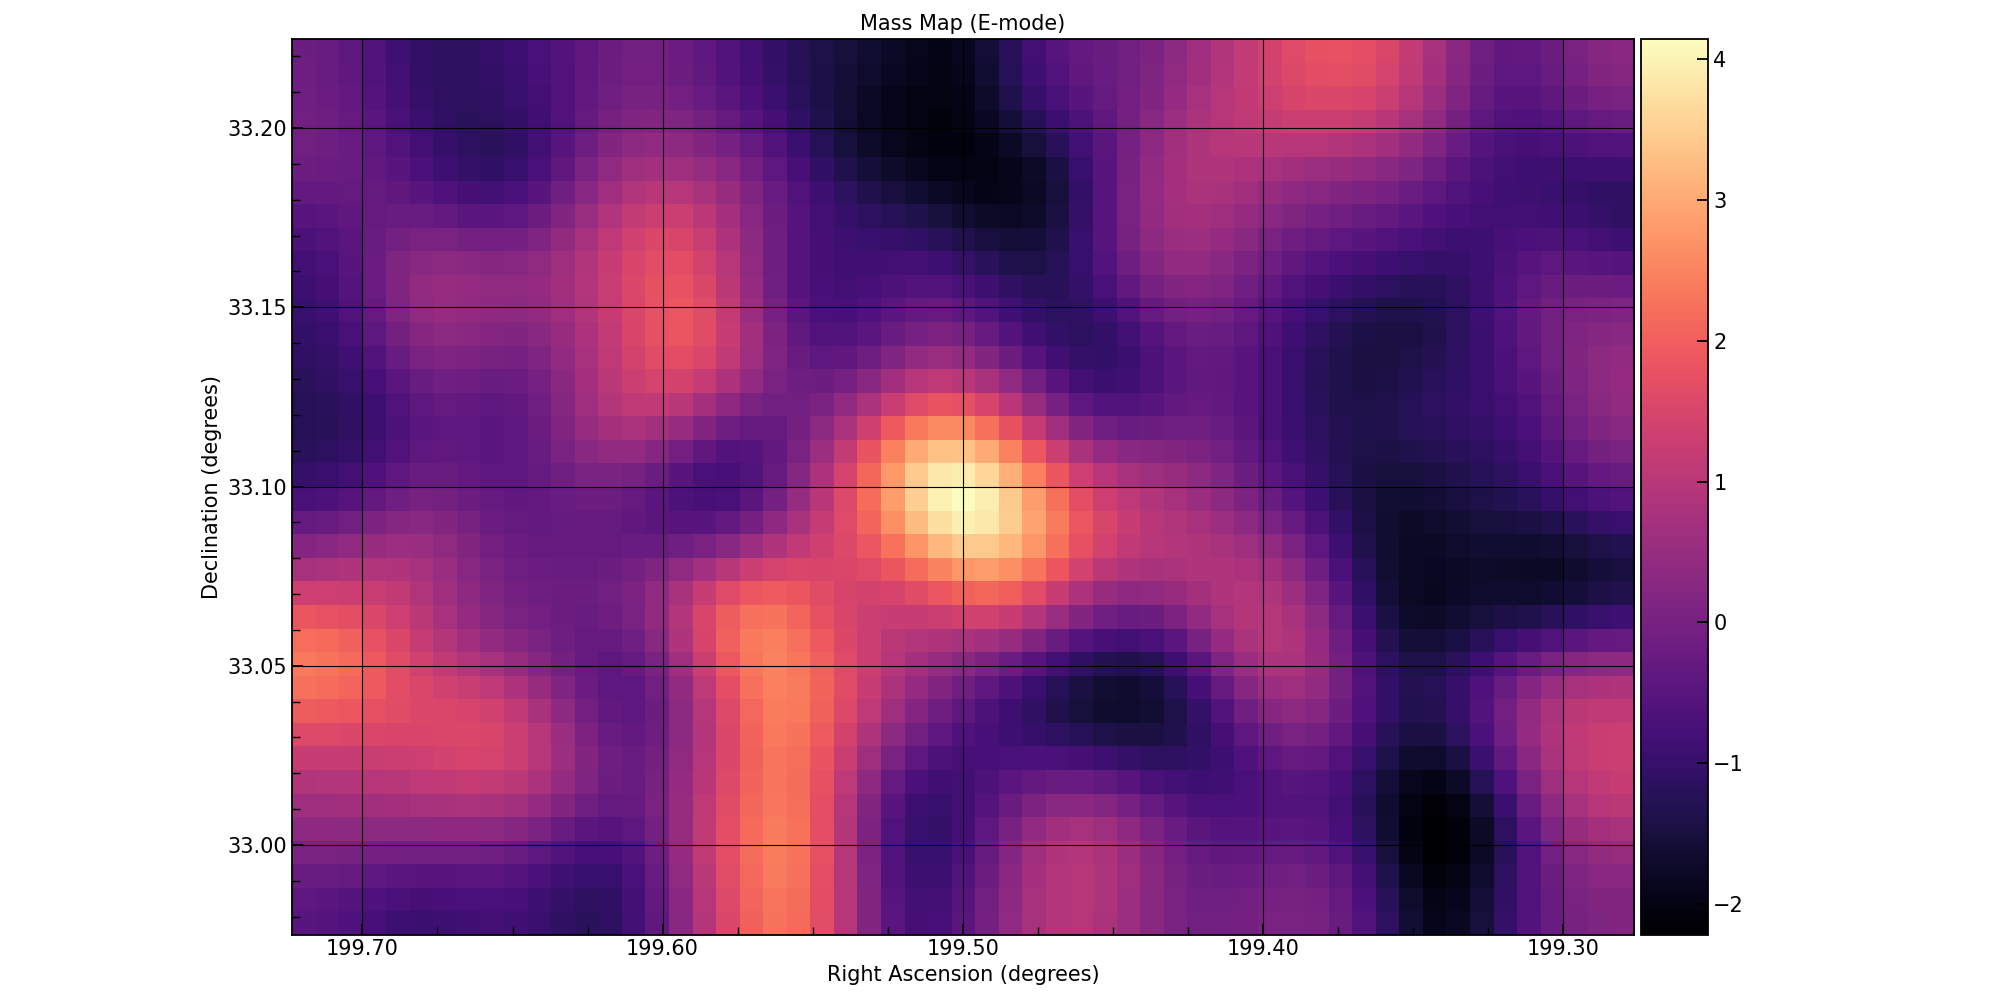
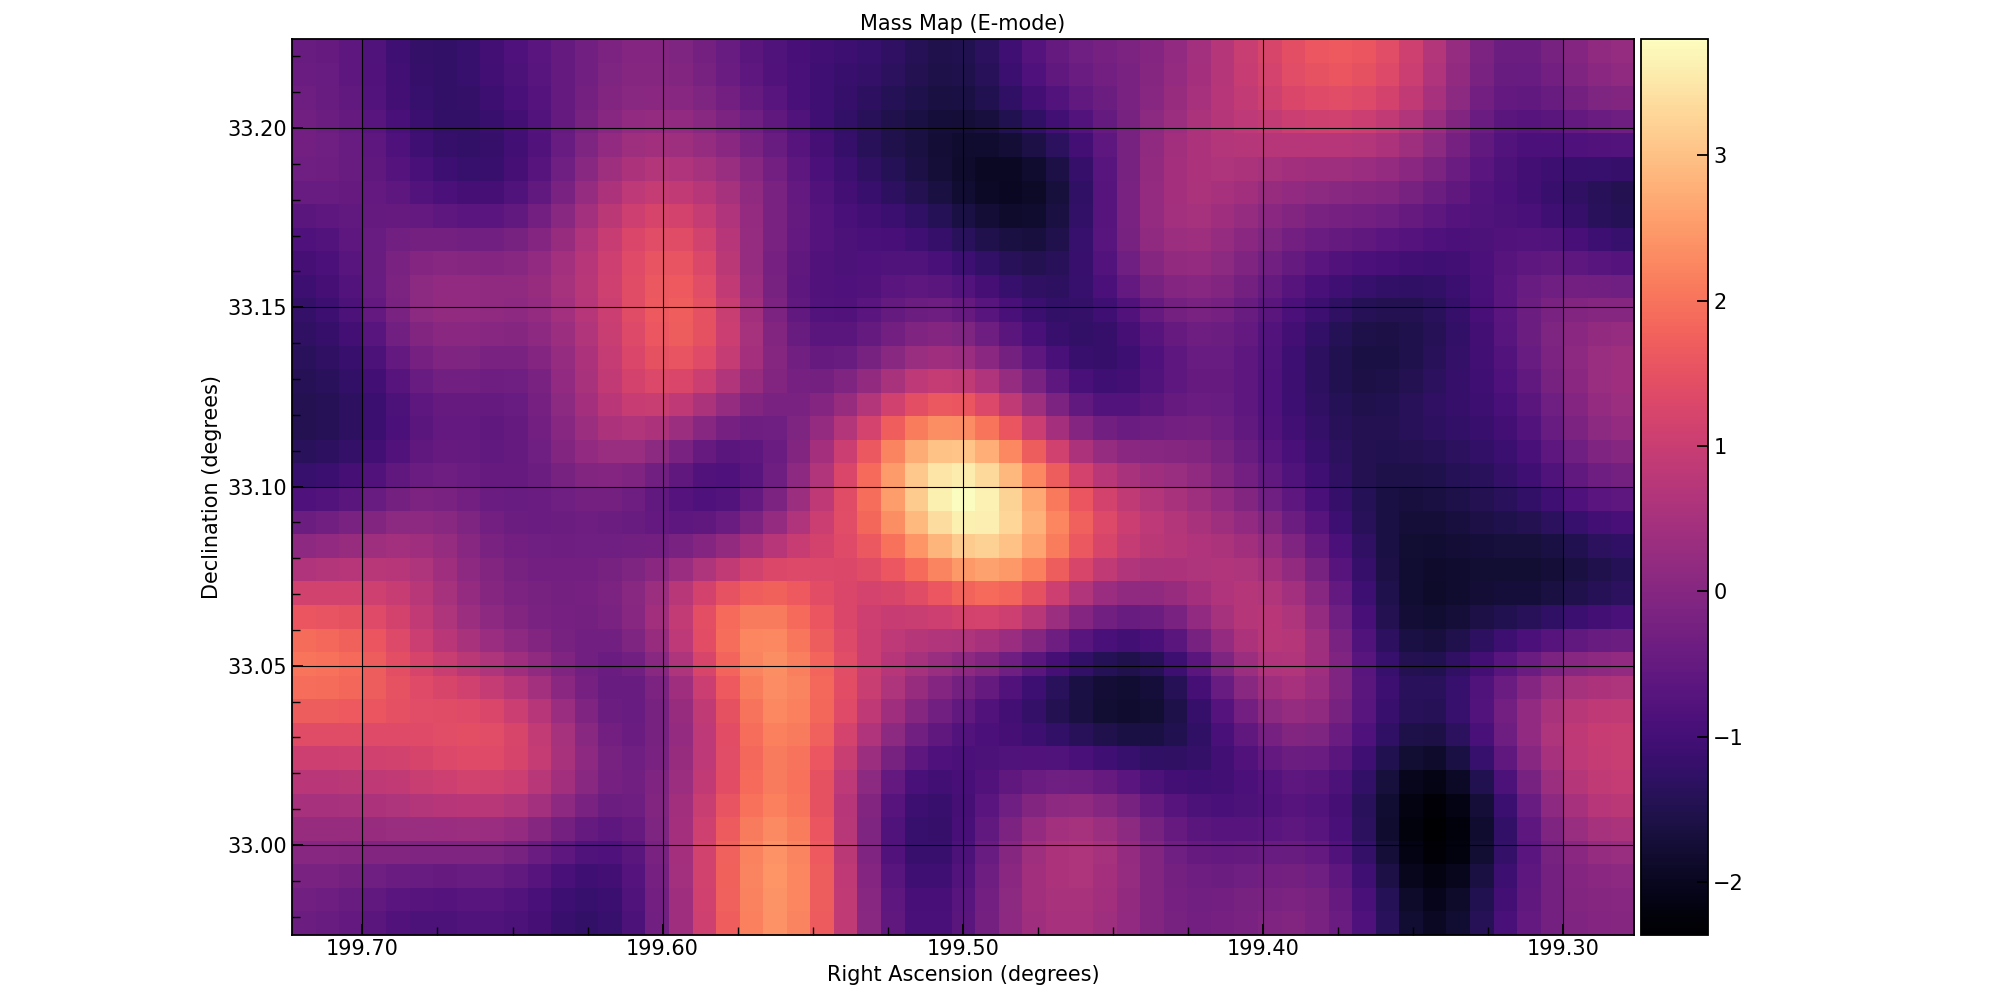
Validate ks_plus algorithm

Changed region(s): [[0.372, 0.031, 0.527, 0.248], [0.341, 0.868, 0.403, 0.961], [0.713, 0.899, 0.744, 0.93]]

diff --git a/smpy/mapping_methods/ks_plus/ks_plus.py b/smpy/mapping_methods/ks_plus/ks_plus.py
@@ -340,7 +340,7 @@ class KSPlusMapper(MassMapper):
         return self._standard_ks_inversion(gamma1, gamma2)
     
     def _apply_wavelet_constraints(self, kappa, mask):
-        """Apply wavelet-based power spectrum constraints.
+        """Apply wavelet-based power spectrum constraints using direct wavelet transform.
         
         Parameters
         ----------
@@ -353,50 +353,53 @@ class KSPlusMapper(MassMapper):
         -------
         kappa_corrected : `numpy.ndarray`
             Convergence map with corrected power spectrum
-
         """
         # Choose wavelet
         wavelet = 'db4'
         level = pywt.dwt_max_level(min(kappa.shape), wavelet)
         level = min(level, 5)  # Limit to reasonable depth
         
-        # Decompose into wavelet coefficients
-        coeffs = pywt.wavedec2(kappa, wavelet, level=level)
+        # Decompose convergence into wavelet coefficients
+        kappa_coeffs = pywt.wavedec2(kappa, wavelet, level=level)
+        
+        # Decompose mask into wavelet coefficients
+        mask_coeffs = pywt.wavedec2(mask.astype(float), wavelet, level=level)
         
         # Process each detail coefficient level
-        for j in range(1, len(coeffs)):
+        for j in range(1, len(kappa_coeffs)):
             # For each detail coefficient (horizontal, vertical, diagonal)
             for d in range(3):
-                # Calculate variance outside the mask (known data)
-                if np.sum(mask == 0) > 0 and np.sum(mask > 0) > 0:
-                    # Resize mask to match current wavelet level if needed
-                    if coeffs[j][d].shape != mask.shape:
-                        # This is an approximation - ideally wavelets would be computed
-                        # on the mask itself to get exact correspondence
-                        mask_resized = gaussian_filter(
-                            mask.astype(float), 
-                            sigma=2**(j-1)
-                        )
-                        mask_resized = (mask_resized > 0.5).astype(float)
-                        mask_resized = zoom(
-                            mask_resized, 
-                            (coeffs[j][d].shape[0]/mask.shape[0], 
-                             coeffs[j][d].shape[1]/mask.shape[1])
-                        )
-                    else:
-                        mask_resized = mask
-                    
+                # Get wavelet coefficient masks at the correct scale
+                mask_wavelet = mask_coeffs[j][d]
+                
+                # Ensure binary mask (coefficients > 0 treated as data, <= 0 as gaps)
+                mask_resized = (mask_wavelet > 0).astype(float)
+                
+                # Make sure we have both gap and non-gap regions
+                if np.sum(mask_resized > 0) > 0 and np.sum(mask_resized == 0) > 0:
                     # Calculate standard deviations
-                    std_out = np.std(coeffs[j][d][mask_resized > 0])
-                    std_in = np.std(coeffs[j][d][mask_resized == 0])
+                    std_out = np.std(kappa_coeffs[j][d][mask_resized > 0])
+                    std_in = np.std(kappa_coeffs[j][d][mask_resized == 0])
                     
                     if std_in > 0:
                         # Apply normalization factor
                         scale_factor = std_out / std_in
-                        coeffs[j][d][mask_resized == 0] *= scale_factor
+                        
+                        # Get a modifiable copy of the coefficients
+                        coeffs_modified = kappa_coeffs[j][d].copy()
+                        
+                        # Apply scaling only in the gap regions
+                        coeffs_modified[mask_resized == 0] *= scale_factor
+                        
+                        # Update coefficients
+                        kappa_coeffs = list(kappa_coeffs)
+                        kappa_coeffs[j] = list(kappa_coeffs[j])
+                        kappa_coeffs[j][d] = coeffs_modified
+                        kappa_coeffs[j] = tuple(kappa_coeffs[j])
+                        kappa_coeffs = tuple(kappa_coeffs)
         
         # Reconstruct
-        kappa_corrected = pywt.waverec2(coeffs, wavelet)
+        kappa_corrected = pywt.waverec2(kappa_coeffs, wavelet)
         
         # Handle potential size changes from wavelet transform
         if kappa_corrected.shape != kappa.shape:
